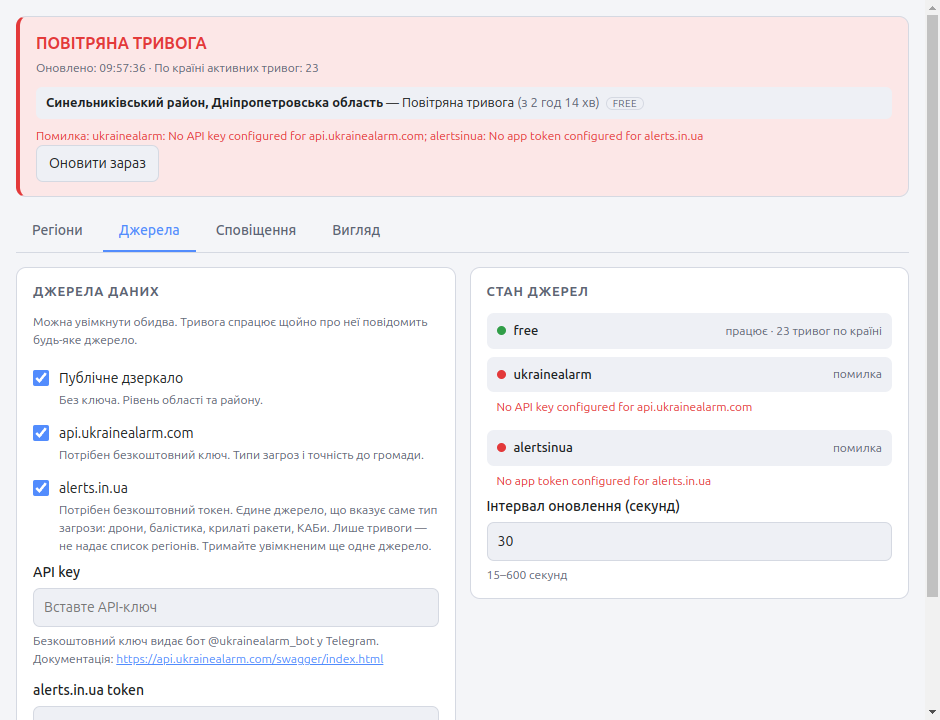
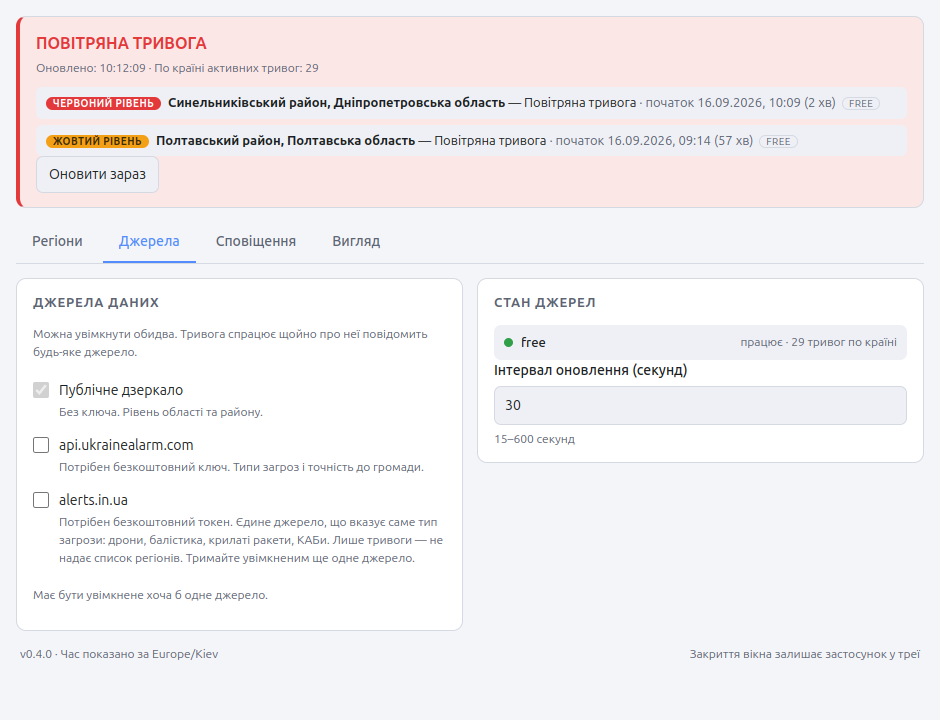
docs: refresh screenshots for v0.4.0 and stop keeping build output
Screenshots were still from v0.2.0, before alert levels, the tabbed
layout and the third source. Replaced with current captures showing a
red and a yellow alert side by side, the per-source health panel and
the yellow-level banner.

Packaging now wipes release/ first, so old versions no longer pile up
locally — GitHub Releases is the only place builds are kept. The local
folder had grown to 963 MB of superseded artifacts.

diff --git a/README.md b/README.md
@@ -1,10 +1,25 @@
 # Ukraine Alarm Tray
 
-A cross-platform desktop tray app for Ukrainian air-raid alerts (drones and missiles).
-Pick the oblasts and raions you care about and the tray icon tells you their status at a
-glance — red during an alert, green when clear. Hover for the details.
+A cross-platform desktop tray app for Ukrainian air-raid alerts. Pick the places you care
+about — down to your own raion or city — and the tray icon tells you their status at a glance:
+**red** for a declared air-raid alert, **amber** for a yellow-level threat, green when clear.
 
-![Settings window](docs/screenshot-settings.png)
+Merges up to three data sources, so an alert reaches you as soon as the first of them reports
+it, and names the actual threat — drones, ballistic or cruise missiles, guided bombs — not just
+"air raid".
+
+![Regions tab showing a red-level and a yellow-level alert side by side](docs/screenshot-main.png)
+
+<table>
+<tr>
+<td width="50%"><img src="docs/screenshot-sources.png" alt="Sources tab with live per-source health"></td>
+<td width="50%"><img src="docs/screenshot-yellow.png" alt="Yellow-level threat banner"></td>
+</tr>
+<tr>
+<td>Sources tab — enable several feeds at once and watch each one's health.</td>
+<td>A yellow-level threat reads differently from a declared raid.</td>
+</tr>
+</table>
 
 ## Features
 
